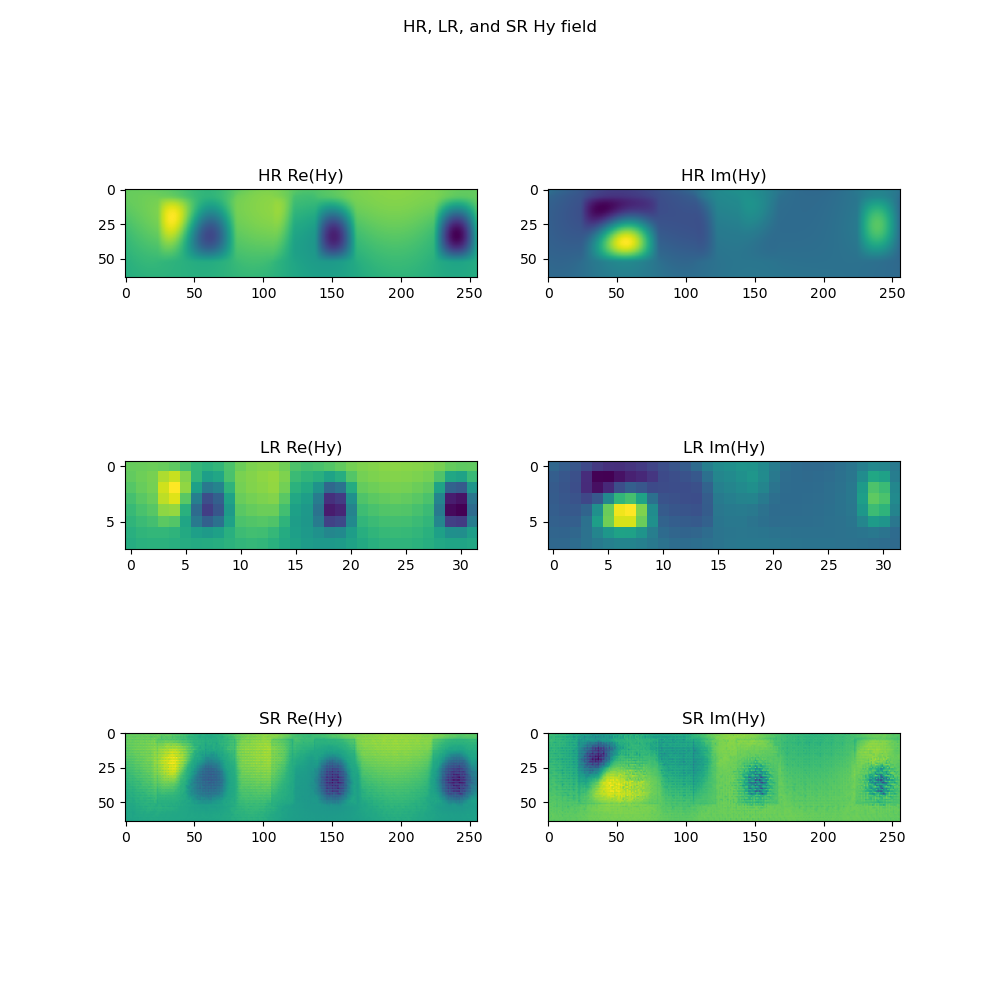
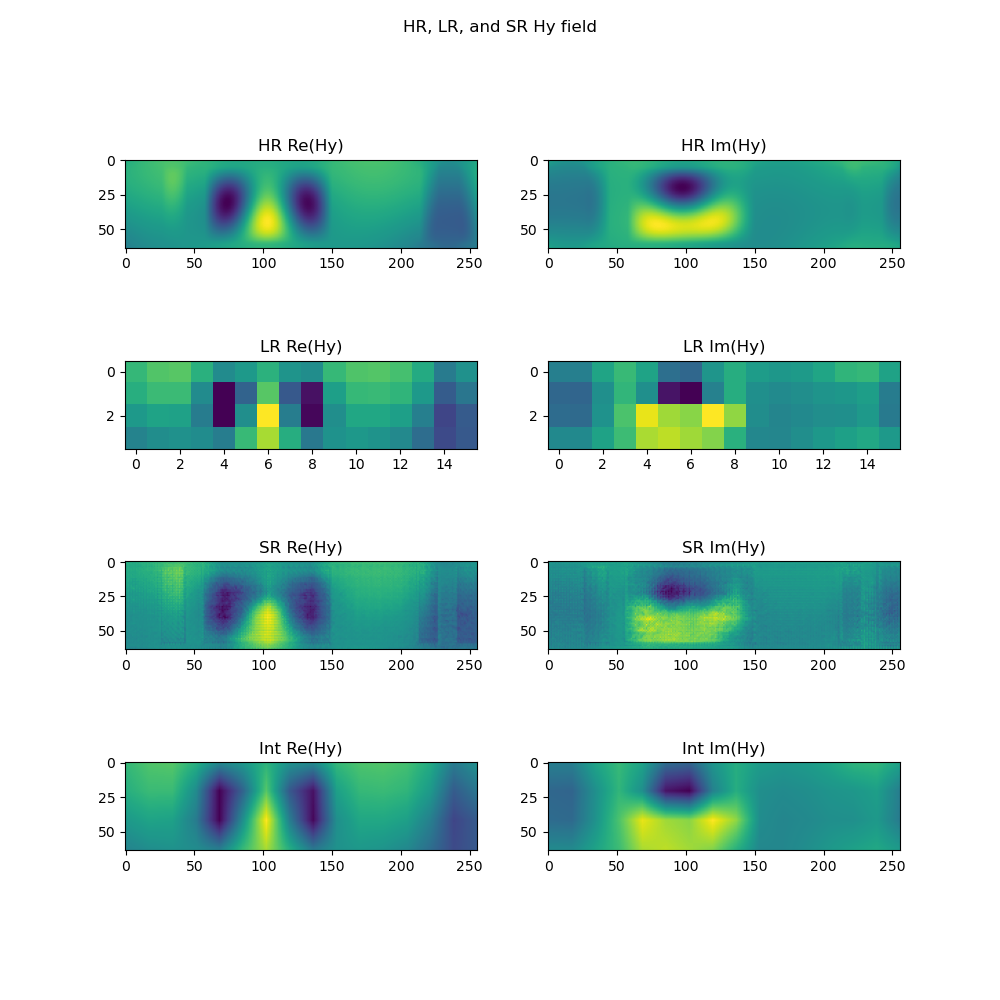
utils

diff --git a/evaluate.py b/evaluate.py
@@ -8,32 +8,37 @@ import torch
 from utils import plot_hr_lr_sr
 from sklearn.metrics import mean_squared_error
 
-def predictWithInterpolation(input_im, scaling=2):
+def predictWithInterpolation(input_im, scaling=16):
     return scipy.ndimage.zoom(input_im, (1, scaling, scaling), order=1)
 
 def pltCompatisonsSamples(sampleNumber):
     exnum = sampleNumber # example to be plotted
-    model = "model1.pth" # SR model to be used
+    model = "models/model_tca_run2.pth" # SR model to be used
     # Interpolated data
-    data = loader.MetaGratingDataLoader(return_hres=True, n_samp_pts=0)
-    hr_im, lr_im = data[exnum]
-    pred_hr_im = predictWithInterpolation(lr_im)[1:3,:,:] # Slice to keep Real and Imaginary interpolated fields
+    data = loader.MetaGratingDataLoader(return_hres=True, n_samp_pts=0,lr_data_filename='data/metanet_lr_data_downsamp16.npy')
+    hr_eps,lr_im, hr_im= data[exnum]
+    print(lr_im.shape)
+    pred_hr_im = predictWithInterpolation(lr_im)#[1:3,:,:] # Slice to keep Real and Imaginary interpolated fields
 
     # Predicted data by model
-    hr_img, lr_img = loader.MetaGratingDataLoader(return_hres=True, n_samp_pts=0)[int(exnum)]
-    net = jnet.JNet(im_dim=(64, 256), static_channels=1, dynamic_channels=2)
+    # hr_eps, lr_fields, hr_fields = loader.MetaGratingDataLoader(return_hres=True)[int(exnum)]
+    hr_eps, lr_fields, hr_fields = loader.MetaGratingDataLoader(return_hres=True,lr_data_filename='data/metanet_lr_data_downsamp16.npy')[int(exnum)]
+    net = jnet.TCAJNet( static_channels=1, dynamic_channels=2, upsampling_layers=3)
     device = torch.device('cuda' if torch.cuda.is_available() else 'cpu')
     net.to(device=device)
-    state_dict = torch.load(model, map_location=device)
-    net.load_state_dict(state_dict)
-    sr_img = predict_img(net=net, lr_img=lr_img, device=device) # must first open a data file and read it into a numpy array    
-    plot_hr_lr_sr(hr_img, lr_img, sr_img,pred_hr_im)
+    # state_dict = torch.load(model, map_location=device)
+    # net.load_state_dict(state_dict)
+    net = torch.load(model)
+    sr_img = predict_img(net=net, lr_img=lr_fields,hr_eps=hr_eps, device=device) # must first open a data file and read it into a numpy array    
+    plot_hr_lr_sr(hr_fields, lr_fields, sr_img,pred_hr_im)
+    # must first open a data file and read it into a numpy array
+    # sr_fields = predict_img(net=net, lr_img=lr_fields, hr_eps=hr_eps, device=device)
 
 def pltMSEError(N):
     # Evaluate Error from Interpolation and Predictions accross N samples
     N = 100
     x = list(range(N)) #Sample Number Array 
-    model = "model1.pth" # SR model to be used
+    model = "models/model_tca_run1.pth" # SR model to be used
     ya1=[] #mse_pred_real
     ya2=[] #mse_pred_imag
     ya3=[] #mse_interp_real
@@ -44,7 +49,7 @@ def pltMSEError(N):
         hr_im, lr_im = data[i]
         pred_hr_im = predictWithInterpolation(lr_im)[1:3,:,:] # Slice to keep Real and Imaginary interpolated fields
         # Predicted data by model
-        hr_img, lr_img = loader.MetaGratingDataLoader(return_hres=True, n_samp_pts=0)[int(i)]
+        hr_img, lr_img = loader.MetaGratingDataLoader(return_hres=True, n_samp_pts=0,lr_data_filename='data/metanet_lr_data_downsamp4.npy')[int(i)]
         net = jnet.JNet(im_dim=(64, 256), static_channels=1, dynamic_channels=2)
         device = torch.device('cuda' if torch.cuda.is_available() else 'cpu')
         net.to(device=device)
@@ -90,8 +95,7 @@ def pltMSEError(N):
 
 if __name__ == '__main__':
 
-    # pltCompatisonsSamples(1) #### PLOT ONE SAMPLE
+    pltCompatisonsSamples(1) #### PLOT ONE SAMPLE
     
-    pltMSEError(100)
+    # pltMSEError(100)
 
-    

diff --git a/utils.py b/utils.py
@@ -1,0 +1,41 @@
+import matplotlib.pyplot as plt
+
+def plot_hr_lr_sr(hr_data, lr_data, sr_data, int_data=None):
+    """
+    Plots the HR ground truth, LR image, and HR super-resolved (SR) image 
+    side-by-side for both the real and imaginary parts of the Hy field.
+    Want two columns (real and imaginary) and three rows (HR, LR, and SR).
+
+    Args:
+        lr_data: the LR array for single example; shape [3, 32, 128] np array
+        hr_data: the HR array for single example; shape [2, 64, 256] np array
+        Note: the 3 channels are permitivities and the Re and Im parts of the 
+        Hy field.
+    """
+    if int_data is None:
+        num_rows = 3
+    else:
+        num_rows = 4
+
+    fig, axs = plt.subplots(num_rows, 2, figsize=(10, 10))
+    fig.suptitle('HR, LR, and SR Hy field')
+    axs[0, 0].imshow(hr_data[0, :, :])
+    axs[0, 0].set_title('HR Re(Hy)')
+    axs[0, 1].imshow(hr_data[1, :, :])
+    axs[0, 1].set_title('HR Im(Hy)')
+    axs[1, 0].imshow(lr_data[0, :, :])
+    axs[1, 0].set_title('LR Re(Hy)')
+    axs[1, 1].imshow(lr_data[1, :, :])
+    axs[1, 1].set_title('LR Im(Hy)')
+    axs[2, 0].imshow(sr_data[0, :, :])
+    axs[2, 0].set_title('SR Re(Hy)')
+    axs[2, 1].imshow(sr_data[1, :, :])
+    axs[2, 1].set_title('SR Im(Hy)')
+    if int_data is not None:
+        axs[3, 0].imshow(int_data[0, :, :])
+        axs[3, 0].set_title('Int Re(Hy)')
+        axs[3, 1].imshow(int_data[1, :, :])
+        axs[3, 1].set_title('Int Im(Hy)')
+
+    plt.savefig('pred.png')
+    plt.show()

diff --git a/predict_tca.py b/predict_tca.py
@@ -113,7 +113,7 @@ if __name__ == '__main__':
     # truth_files = args.truth
     # in_files = args.input
 
-    hr_eps, lr_fields, hr_fields = dataloader.MetaGratingDataLoader(return_hres=True)[int(args.exnum[0])]
+    hr_eps, lr_fields, hr_fields = dataloader.MetaGratingDataLoader(return_hres=True,lr_data_filename='data/metanet_lr_data_downsamp4.npy')[int(args.exnum[0])]
 
     #out_files = get_output_filenames(args)
 
